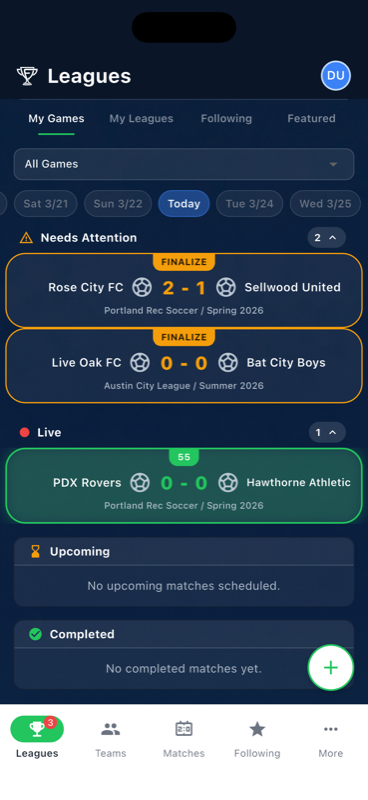
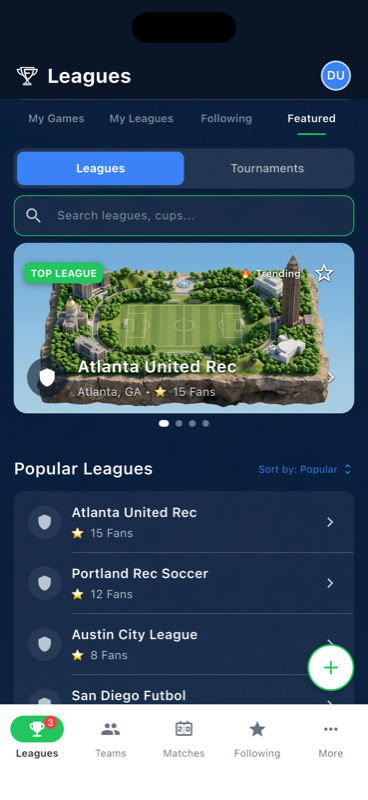
feat: swap hero, owners, and fans screenshots
- Hero: featured leagues with isometric stadium (was My Games)
- Owners section: My Games with live scores (was league dashboard)
- Fans section: Following tab with favorite teams (was standings reuse)

diff --git a/features.html b/features.html
@@ -107,7 +107,7 @@
                 </div>
                 <!-- Device Mockup Placeholder -->
                 <div class="flex justify-center mt-12 reveal">
-                    <img src="/images/role-owners.png" alt="League owner dashboard" class="w-56 rounded-[2rem] shadow-xl">
+                    <img src="/images/role-owners.png" alt="League owner view with live matches and action items" class="w-56 rounded-[2rem] shadow-xl">
                 </div>
             </div>
         </section>
@@ -171,7 +171,7 @@
                 </div>
                 <!-- Device Mockup Placeholder -->
                 <div class="flex justify-center mt-12 reveal">
-                    <img src="/images/role-fans.png" alt="League standings and scores" class="w-56 rounded-[2rem] shadow-xl">
+                    <img src="/images/role-fans.png" alt="Following tab showing favorite teams" class="w-56 rounded-[2rem] shadow-xl">
                 </div>
             </div>
         </section>

diff --git a/index.html b/index.html
@@ -59,7 +59,7 @@
                     </div>
                 </div>
                 <div class="flex-1 flex justify-center animate-slide-up">
-                    <img src="/images/hero-app.png" alt="Fanager app showing live league games and scores" class="w-64 rounded-[2rem] shadow-2xl shadow-blue-500/10">
+                    <img src="/images/hero-app.png" alt="Fanager app featuring leagues with isometric stadium backgrounds" class="w-64 rounded-[2rem] shadow-2xl shadow-blue-500/10">
                 </div>
             </div>
         </section>
